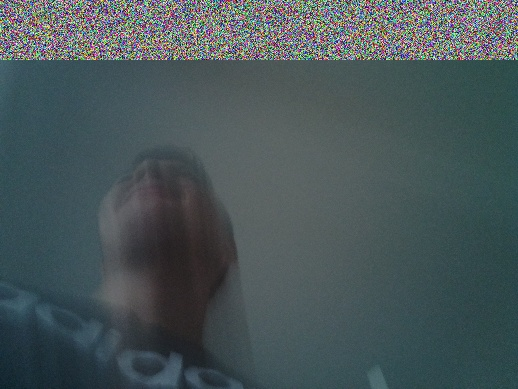
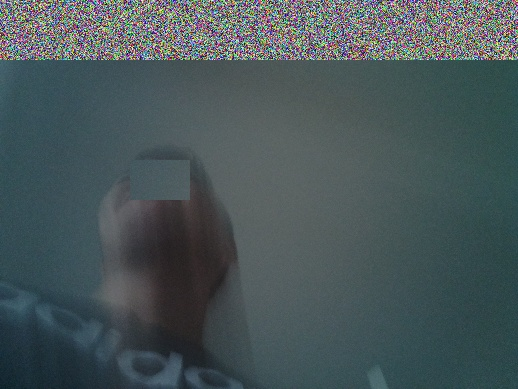
Video 2 finished

Changed region(s): [[0.0, 0.0, 1.0, 0.1542], [0.278, 0.401, 0.3707, 0.5244]]

diff --git a/Python/CodeWithTim/video_2.py b/Python/CodeWithTim/video_2.py
@@ -18,10 +18,14 @@ Channels
 """
 print(img.shape)
 
-# 
+# Gives Random color values to the first 300 rows
 for i in range(300):
     for j in range(img.shape[1]):
         img[i][j] = [random.randint(0, 255), random.randint(0, 255), random.randint(0, 255)]
+
+
+tag = img[500:700, 600:900]
+img[800:1000, 650:950] = tag
 
 img = cv2.resize(img, (0, 0), fx=0.2, fy=0.2) # Scales by a 0.2x factor.
 
